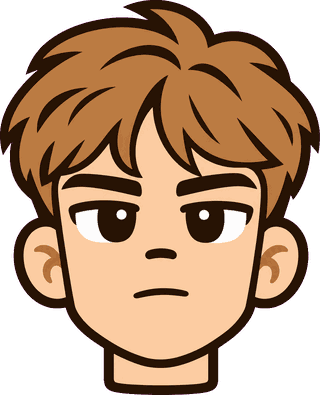
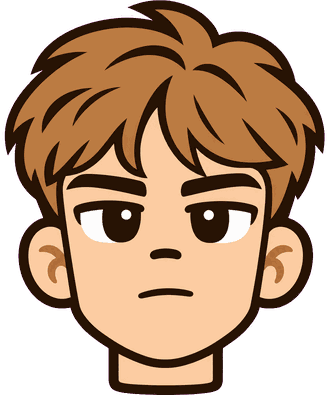
Head variants aligned, assets regenerated

diff --git a/app/main.js b/app/main.js
@@ -190,8 +190,8 @@ function drawPart(body) {
   const variant=hp<=0&&manifest.heads[`${f.id}-ko`]?`${f.id}-ko`:hp<config.hp*.5&&manifest.heads[`${f.id}-hurt`]?`${f.id}-hurt`:f.id;
   const key=head?`head-${variant}`:`body-${sheet()}-${p.part}`,img=images.get(key);
   if(!img) return;
-  const w=p.w,h=head?w*manifest.heads[variant][1]/manifest.heads[variant][0]:p.h;
-  const top=head?-h+w*.48:-h/2;
+  const w=head?p.w*(manifest.heads[variant][2]||1):p.w,h=head?w*manifest.heads[variant][1]/manifest.heads[variant][0]:p.h;
+  const top=head?-h+p.w*.48:-h/2;
   ctx.save();ctx.translate(body.position.x,body.position.y);ctx.rotate(body.angle);
   if(p.side<0) ctx.scale(-1,1);
   ctx.drawImage(img,-w/2,top,w,h);

diff --git a/app/assets.test.js b/app/assets.test.js
@@ -17,7 +17,7 @@ test('all configured heads and outfits exist; PNG dimensions match manifest',()=
   for(const [name,size] of files) {
     const png=readFileSync(new URL(`./assets/${name}.png`,import.meta.url));
     assert.equal(png.subarray(1,4).toString(),'PNG',name);
-    assert.deepEqual([png.readUInt32BE(16),png.readUInt32BE(20)],size,name);
+    assert.deepEqual([png.readUInt32BE(16),png.readUInt32BE(20)],size.slice(0,2),name);
   }
 });
 

diff --git a/scripts/assets.py b/scripts/assets.py
@@ -1,4 +1,4 @@
-"""Готовит картинки мини-аппа в app/assets из faces-src/ и body-src/ (маджента -> прозрачность).
+"""Готовит картинки мини-аппа в app/assets из heads-src/ и body-src/ (маджента -> прозрачность).
 Головы: <id>.png, опционально <id>-hurt.png и <id>-ko.png. Тела: листы из 5 деталей (см. body.py).
 Запуск: .venv/bin/python scripts/assets.py"""
 import json, pathlib
@@ -22,10 +22,28 @@ def save(im, name):
     im.quantize(96, method=Image.Quantize.FASTOCTREE).save(dst / name, optimize=True)
     return [im.width, im.height]
 
-for src in sorted((root / 'faces-src').glob('*.png')):
-    im = key(Image.open(src)); im = im.crop(im.getbbox())
-    im = im.resize((HEAD_W, round(im.height * HEAD_W / im.width)), Image.LANCZOS)
-    manifest['heads'][src.stem] = save(im, f'head-{src.stem}.png')
+# Три версии головы (обычная, -hurt, -ko) кладутся на общий холст: один масштаб (по обычной),
+# низ шеи по центру и на одной высоте, чтобы голова не прыгала при смене состояния.
+# В манифесте [w, h, k]: k = ширина холста / ширина обычной головы, рендер рисует шириной headW * k.
+def neck_x(im):
+    row = im.crop((0, im.height - 6, im.width, im.height)).getbbox()
+    return (row[0] + row[2]) / 2
+
+for base_src in sorted(p for p in (root / 'heads-src').glob('*.png') if '-' not in p.stem):
+    fid = base_src.stem
+    group = {}
+    for suffix in ('', '-hurt', '-ko'):
+        f = root / 'heads-src' / f'{fid}{suffix}.png'
+        if f.exists():
+            im = key(Image.open(f)); group[suffix] = im.crop(im.getbbox())
+    base_w = group[''].width; s = HEAD_W / base_w
+    half = max(max(neck_x(im), im.width - neck_x(im)) for im in group.values())
+    H = max(im.height for im in group.values())
+    for suffix, im in group.items():
+        canvas = Image.new('RGBA', (round(half * 2), H), (30, 20, 20, 0))
+        canvas.paste(im, (round(half - neck_x(im)), H - im.height))
+        canvas = canvas.resize((round(canvas.width * s), round(H * s)), Image.LANCZOS)
+        manifest['heads'][fid + suffix] = save(canvas, f'head-{fid}{suffix}.png') + [round(half * 2 / base_w, 3)]
 
 for src in sorted((root / 'body-src').glob('*.png')):
     im = key(Image.open(src)); alpha = im.getchannel('A')
